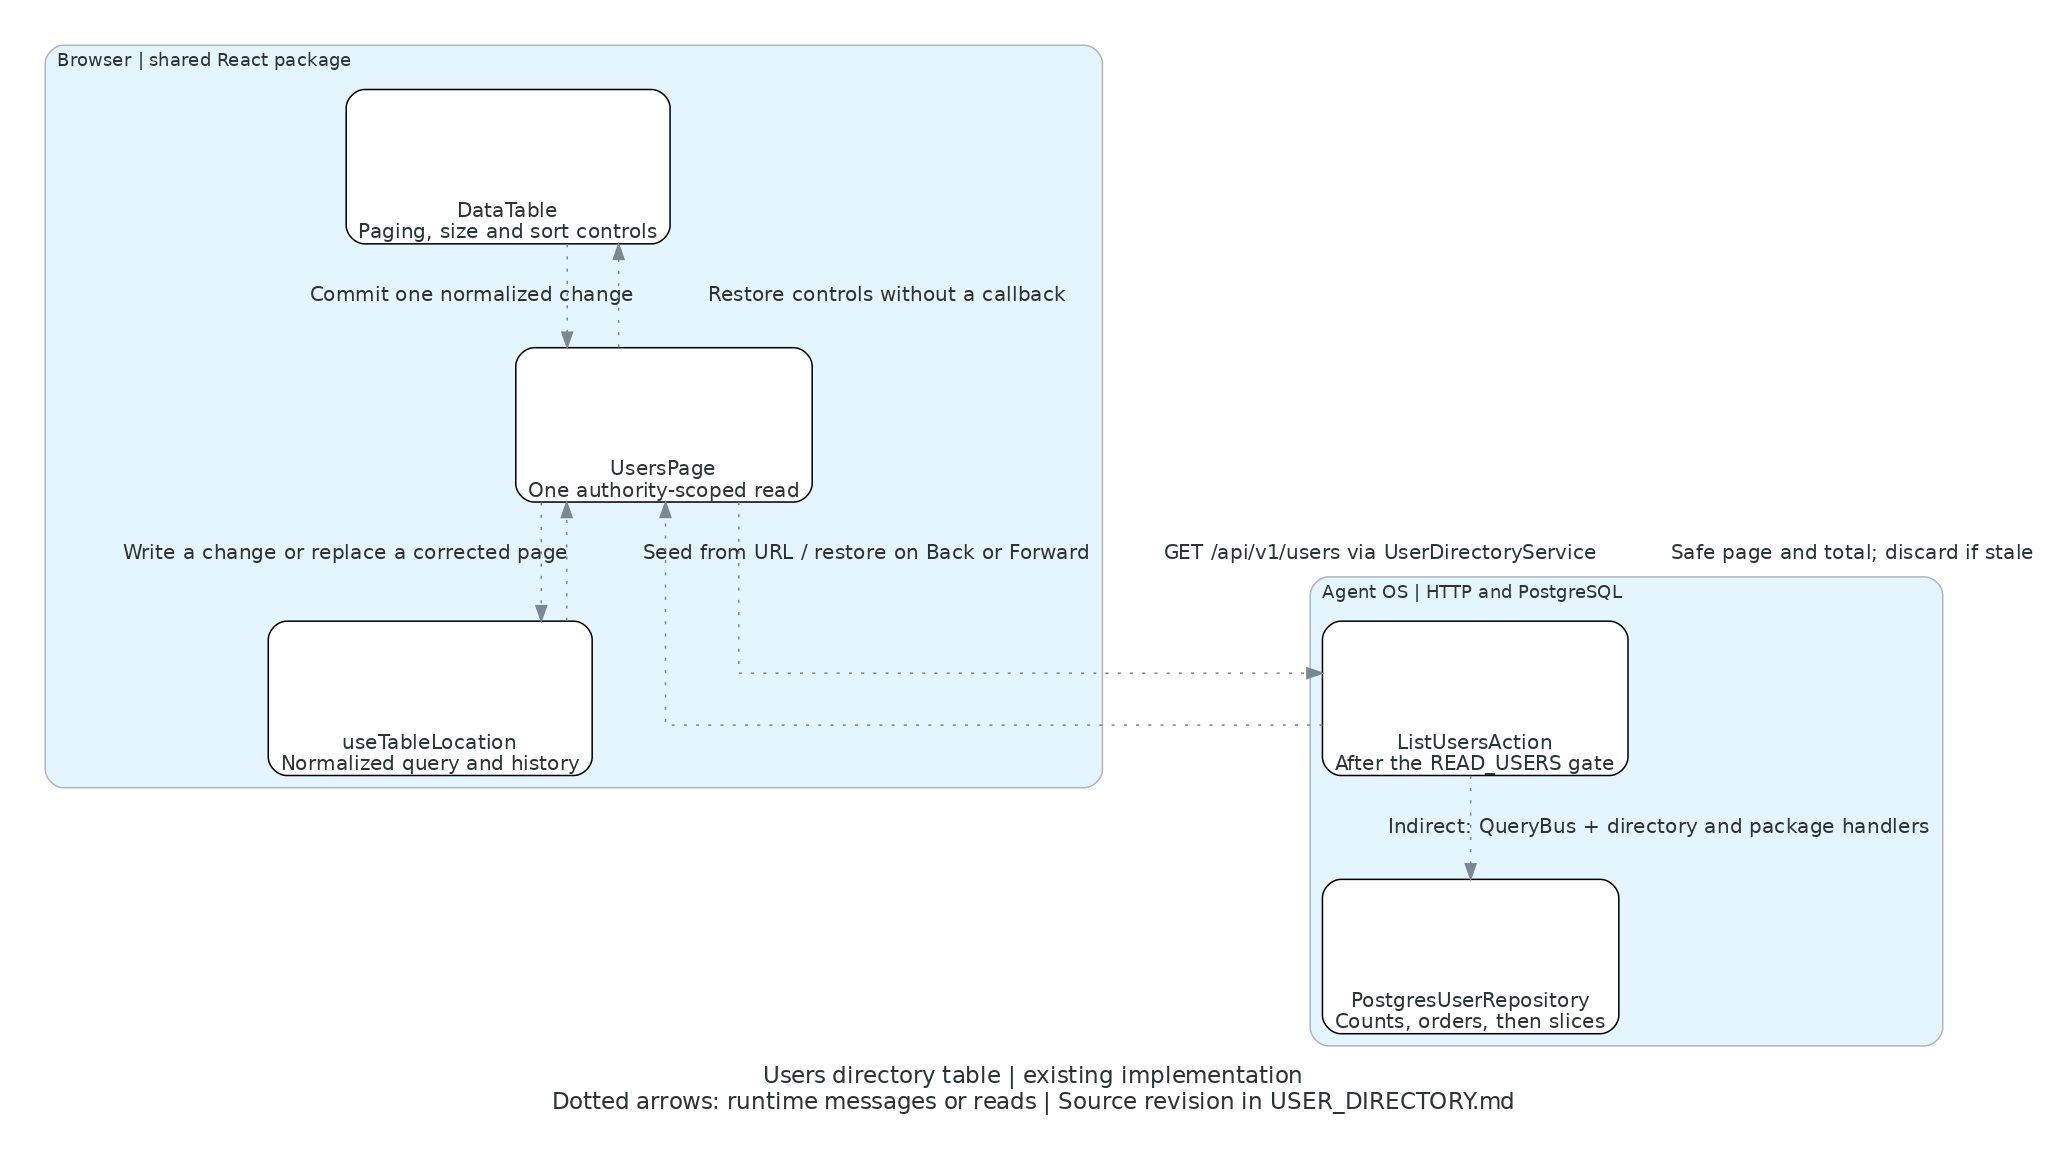
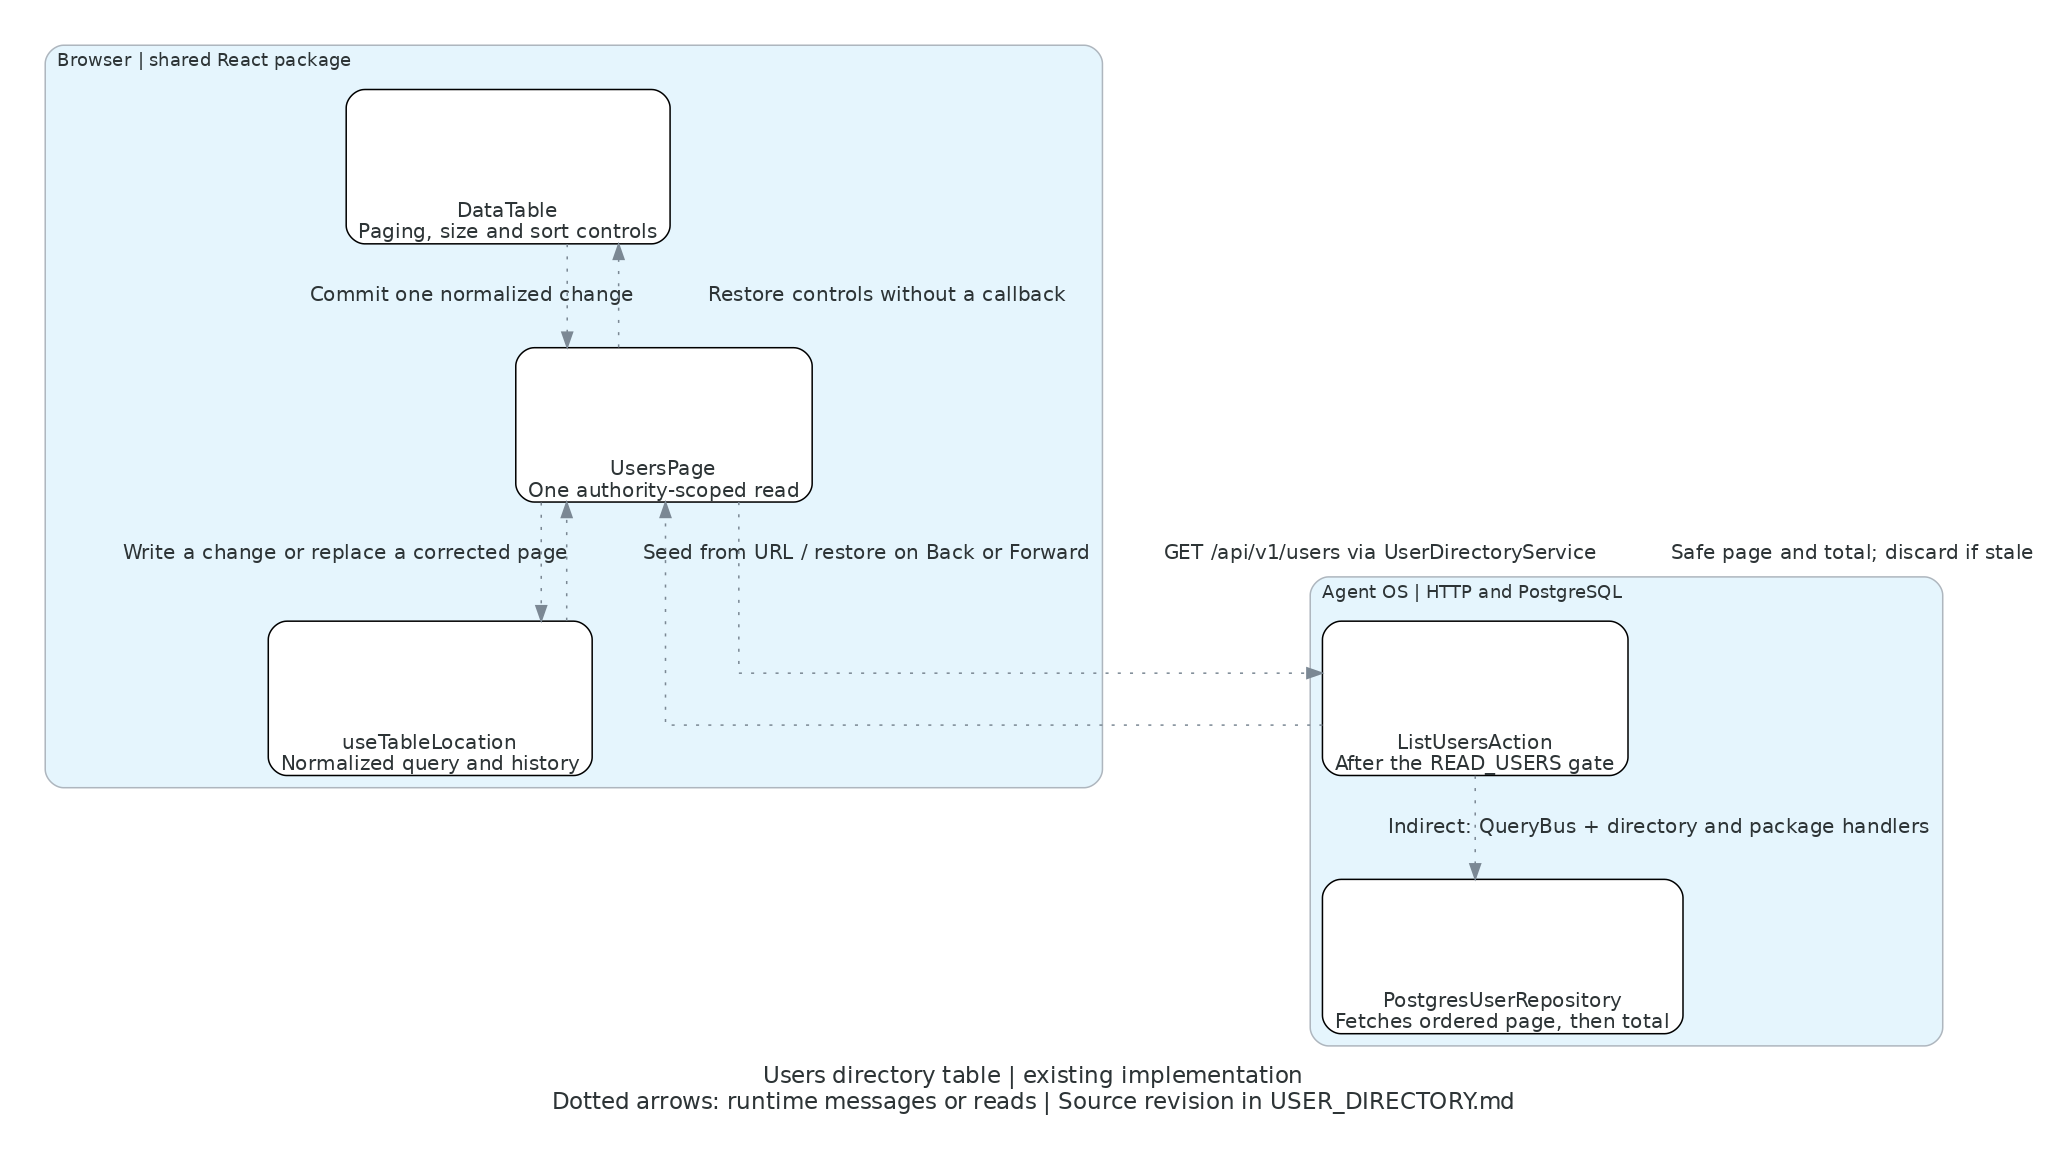
Correct the ordered Users page and count diagram

Changed region(s): [[0.6502, 0.7481, 0.836, 0.9039]]

diff --git a/docs/engineering/shared-react/users-table-flow.py b/docs/engineering/shared-react/users-table-flow.py
@@ -28,7 +28,7 @@ with Diagram(
         location = Node("useTableLocation\nNormalized query and history", nodeid="location")
     with Cluster("Agent OS | HTTP and PostgreSQL"):
         action = Node("ListUsersAction\nAfter the READ_USERS gate", nodeid="action")
-        listing = Node("PostgresUserRepository\nCounts, orders, then slices", nodeid="listing")
+        listing = Node("PostgresUserRepository\nFetches ordered page, then total", nodeid="listing")
 
     table >> flow("Commit one normalized change") >> page
     page >> flow("Restore controls without a callback") >> table

diff --git a/docs/engineering/USER_DIRECTORY.md b/docs/engineering/USER_DIRECTORY.md
@@ -84,7 +84,7 @@ Forbidden controls are absent, not hidden focus targets. Client presentation nev
 
 ![Users table read and restoration flow](shared-react/users-table-flow.png)
 
-Existing implementation at `334699418e3dd5774660bad9f43a578471fa4abb`.
+Existing implementation at `b7d458ec98e76b26d9710d8d54552635704a23bd`.
 [Editable Python](shared-react/users-table-flow.py). Dotted arrows show runtime messages or reads, not static dependencies.
 
 | Flow | Source trace |
@@ -92,10 +92,14 @@ Existing implementation at `334699418e3dd5774660bad9f43a578471fa4abb`.
 | Commit one change; restore without another callback | [`DataTable`](../../packages/react/src/components/DataTable.tsx) emits `onChange` from `commit`; it takes external state from `restore.revision`. [`UsersPage`](../../packages/react/src/pages/UsersPage.tsx) wires the two directions. |
 | Seed/restore from the address; write a change or replace a correction | [`useTableLocation`](../../packages/react/src/components/useTableLocation.ts) reads the initial URL and `popstate`, pushes table gestures, and replaces a corrected page from `restoreQuery`. [`UsersPage`](../../packages/react/src/pages/UsersPage.tsx) checks the total before requesting a correction. |
 | Request the current authorized page and publish only while current | [`UsersPage`](../../packages/react/src/pages/UsersPage.tsx) fences by query, abort signal and live scope. [`UserDirectoryService.load`](../../packages/react/src/features/users/UserDirectoryService.ts) uses the same-origin API client. [`ListUsersAction.handle`](../../src/Adapter/Http/Action/Api/V1/Users/ListUsersAction.php) declares `READ_USERS` and returns a safe page. |
-| Count, sort and page before returning rows | The Action dispatches through the query bus to the [registered directory handler](../../config/application/user_directory.php), which [calls package user and role reads](../../src/Application/AccessControl/User/QueryHandler/ListDirectoryUsersHandler.php). [`PostgresUserRepository`](../../src/Adapter/Persistence/AccessControl/User/PostgresUserRepository.php) counts and applies `CatalogOrdering` before offset and limit. |
+| Fetch the ordered page, then read its total separately | The Action dispatches through the query bus to the [registered directory handler](../../config/application/user_directory.php), which [calls package user and role reads](../../src/Application/AccessControl/User/QueryHandler/ListDirectoryUsersHandler.php). [`PostgresUserRepository::getAll`](../../src/Adapter/Persistence/AccessControl/User/PostgresUserRepository.php) applies `CatalogOrdering` before offset and limit, fetches the page, then runs the separate `COUNT(*)` query. |
 
-This source view compresses bus and mapping steps. It omits sign-in, detail, Role/Permission endpoints,
-and the example consumer's search. It does not certify runtime behavior, accessibility, or independent acceptance.
+The host also restores explicit Users destinations through `useTableLocation`. Before navigation or sign-in,
+it keeps only the canonical Users options and a yes/no reset flag. A malformed destination that resolves to the
+current address shows the notice without adding a history entry or making another list request.
+
+This source view compresses bus and mapping steps. It omits programmatic navigation, sign-in, detail,
+Role/Permission endpoints, and the example consumer's search. It does not certify runtime behavior, accessibility, or independent acceptance.
 
 ## Safe user detail (TASK-00118 implementation)
 
